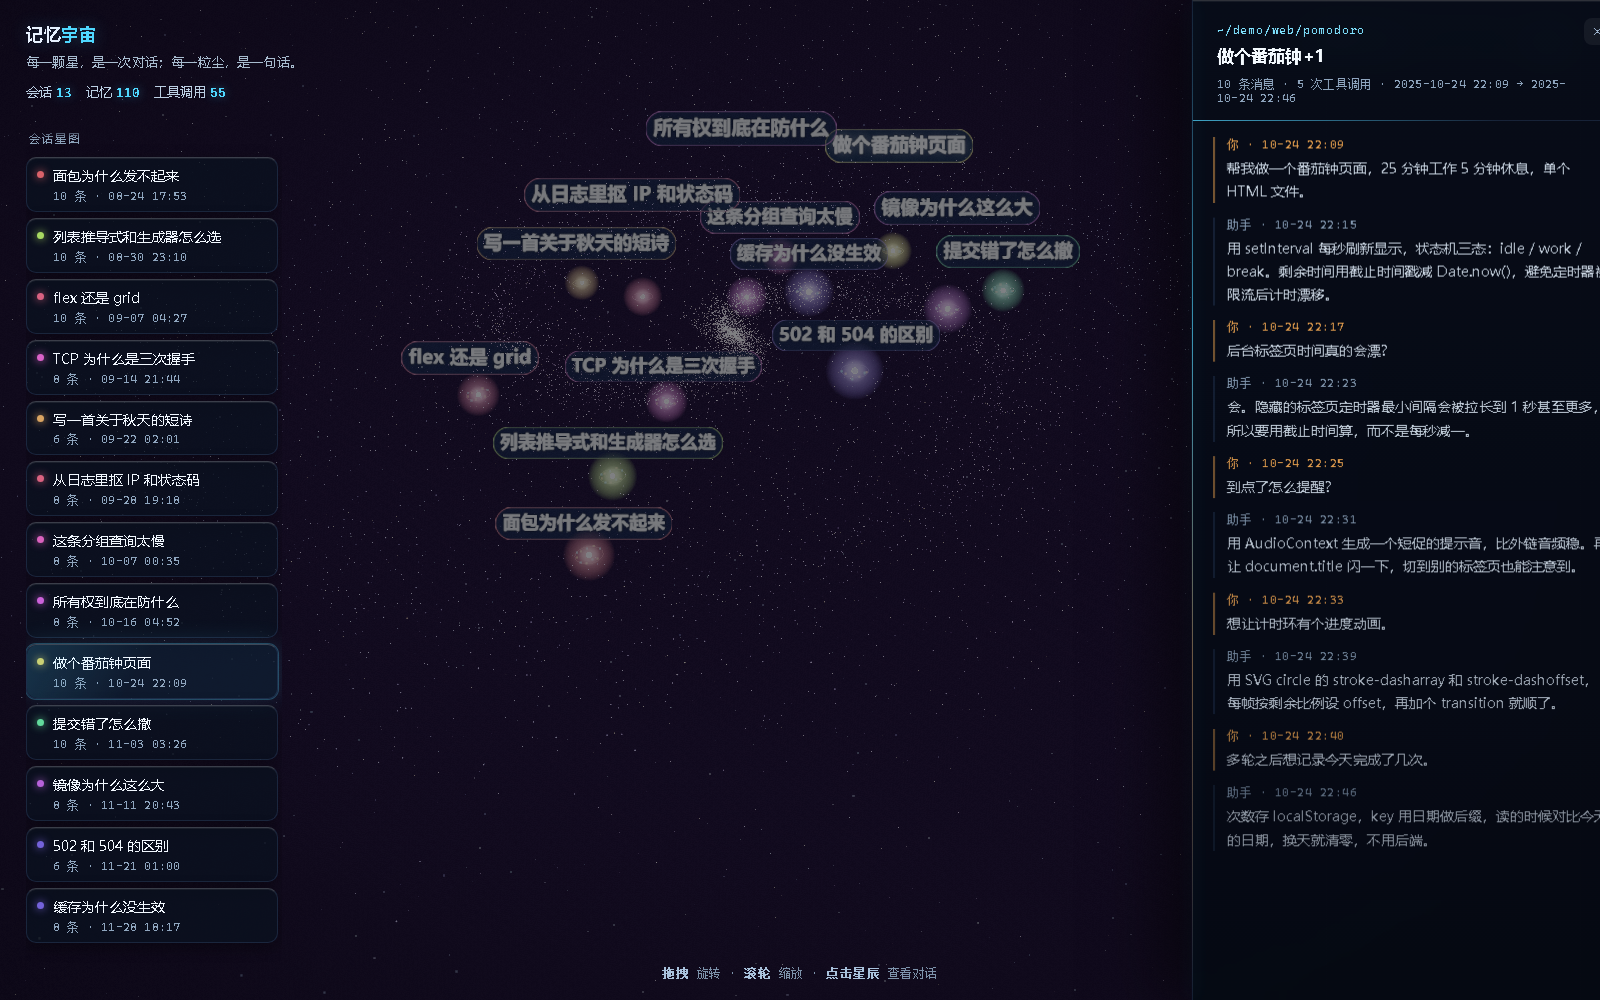
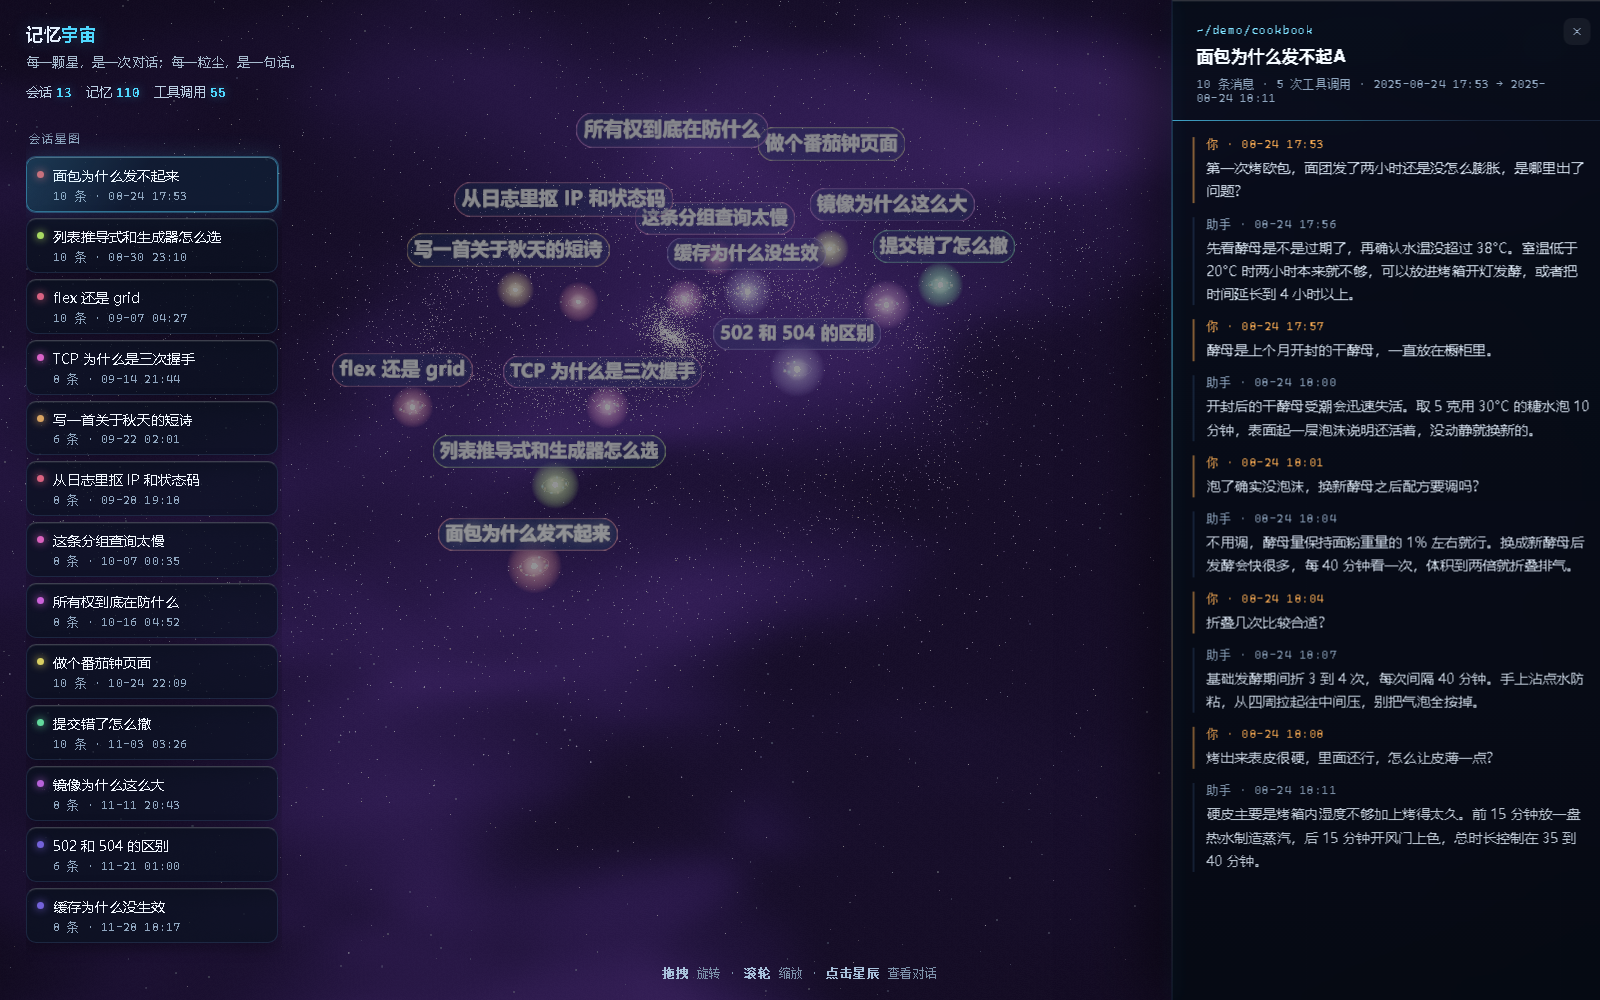
chore: refresh preview screenshots (fiber links, flowing nebula, tighter framing); add ?zoom= for framing

diff --git a/docs/index.html b/docs/index.html
@@ -2635,6 +2635,11 @@ canvas{cursor:none;}
       orbit.phi = 0.95;
       frameAll();
 
+      // ?zoom=0.6 之类：把取景再收紧一档。默认取景要把整条旋臂都装进来，
+      // 会话星就只占画面中间一小块；截图/README 里用这个参数才看得清星。
+      const zoomK = parseFloat(QS.get('zoom') || '');
+      if (zoomK > 0.2 && zoomK < 3) orbit.radius = Math.max(40, orbit.radius * zoomK);
+
       const fi = QS.get('focus');
       const focusS = fi !== null ? sessions[+fi] : null;
 

diff --git a/web/app.js b/web/app.js
@@ -2330,6 +2330,11 @@
       orbit.phi = 0.95;
       frameAll();
 
+      // ?zoom=0.6 之类：把取景再收紧一档。默认取景要把整条旋臂都装进来，
+      // 会话星就只占画面中间一小块；截图/README 里用这个参数才看得清星。
+      const zoomK = parseFloat(QS.get('zoom') || '');
+      if (zoomK > 0.2 && zoomK < 3) orbit.radius = Math.max(40, orbit.radius * zoomK);
+
       const fi = QS.get('focus');
       const focusS = fi !== null ? sessions[+fi] : null;
 
